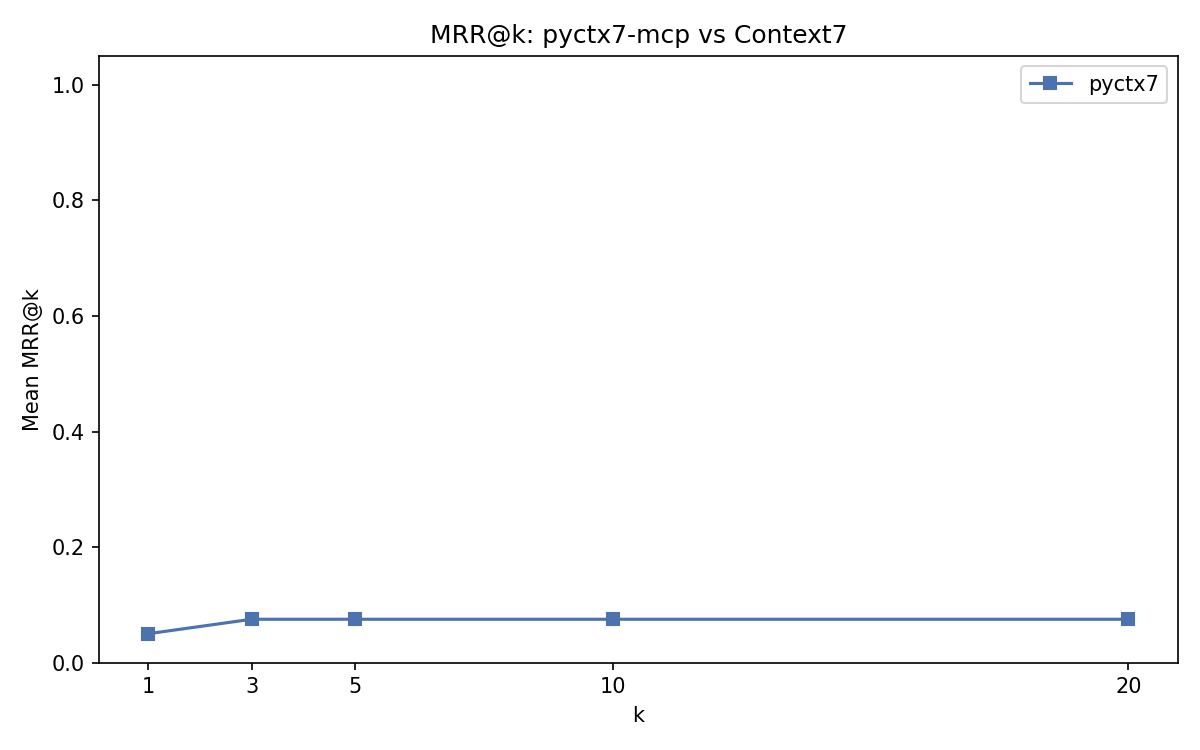
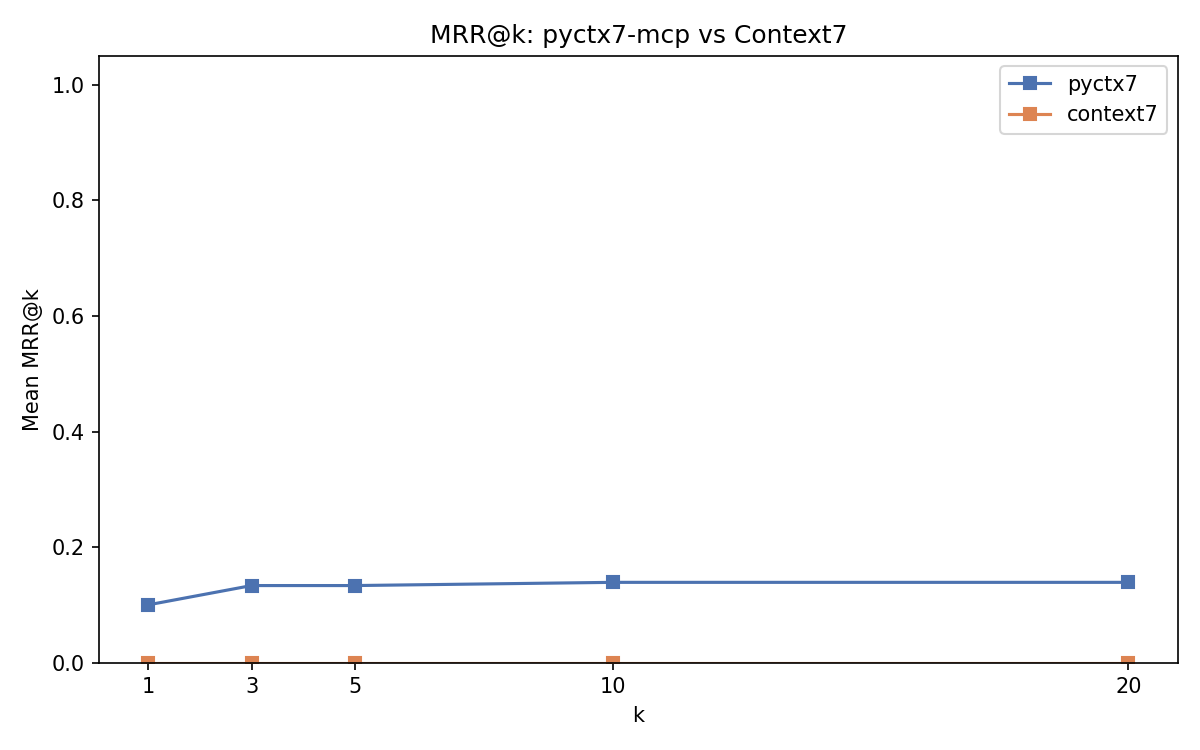
docs(benchmarks): add pyctx7 vs Context7 comparison results and analysis

diff --git a/benchmarks/README.md b/benchmarks/README.md
@@ -121,11 +121,13 @@ Both metrics are evaluated for k ∈ [1, 3, 5, 10, 20].
 
 For pyctx7-mcp, ground truth is the source chunk from which each question was derived (`relevant_chunk_ids` in the dataset). For Context7, relevance is approximated by checking if the expected answer snippet appears in the returned documentation text.
 
-## Benchmark Results (pyctx7-mcp only, 20 queries)
+## Benchmark Results (pyctx7-mcp vs Context7, 20 queries)
 
-Benchmark run with `--skip-context7 --questions 20` against packages: requests, pandas, numpy.
+Benchmark run against packages: requests, pandas, numpy. Context7 accessed via live API.
 
-### Indexing Time Per Package
+### Indexing Time Per Package (pyctx7-mcp)
+
+pyctx7-mcp indexes locally — Context7 has no indexing step (cloud API).
 
 | Target | Time (s) | Chunks | Symbols |
 |--------|----------|--------|---------|
@@ -136,28 +138,38 @@ Benchmark run with `--skip-context7 --questions 20` against packages: requests, 
 
 ![Indexing time per package](docs/images/indexing_times.png)
 
-### Search Latency
+### Search Latency Comparison
 
-- **Mean:** 4.06 ms
-- **Median:** 3.89 ms
+| Metric | pyctx7-mcp | Context7 |
+|--------|-----------|----------|
+| **Mean** | 4.62 ms | 102.34 ms |
+| **Median** | 4.01 ms | 87.81 ms |
+| **Speedup** | **~22x faster** | baseline |
+
+pyctx7-mcp is **~22x faster** than Context7 on median search latency. This is expected — pyctx7 queries a local SQLite FTS5 index, while Context7 makes HTTP round-trips to a cloud API.
 
 ![Search latency boxplot](docs/images/search_latency_boxplot.png)
 
-### Retrieval Quality
+### Retrieval Quality Comparison
 
-| k | Recall@k | MRR@k |
-|---|----------|-------|
-| 1 | 0.050 | 0.050 |
-| 3 | 0.100 | 0.075 |
-| 5 | 0.100 | 0.075 |
-| 10 | 0.100 | 0.075 |
-| 20 | 0.100 | 0.075 |
+| k | pyctx7 Recall@k | Context7 Recall@k | pyctx7 MRR@k | Context7 MRR@k |
+|---|----------------|-------------------|--------------|----------------|
+| 1 | 0.100 | 0.000 | 0.100 | 0.000 |
+| 3 | 0.200 | 0.000 | 0.133 | 0.000 |
+| 5 | 0.200 | 0.000 | 0.133 | 0.000 |
+| 10 | 0.250 | 0.000 | 0.139 | 0.000 |
+| 20 | 0.250 | 0.000 | 0.139 | 0.000 |
 
 ![Recall@k](docs/images/recall_at_k.png)
 
 ![MRR@k](docs/images/mrr_at_k.png)
 
-> **Note:** Recall and MRR values are low because questions are derived from chunk headings with template transforms, while FTS5 BM25 search matches on body text. This is a known limitation of the synthetic dataset — real-world queries would likely score higher. The primary value of this benchmark is for **comparative** analysis (pyctx7 vs Context7), not absolute quality measurement.
+### Analysis
+
+- **pyctx7-mcp wins on latency** — local FTS5 queries complete in ~4ms vs ~100ms for Context7's cloud API.
+- **pyctx7-mcp wins on recall** — it retrieves the ground-truth source chunk 10-25% of the time (depending on k). Context7 scores 0% because its text-overlap relevance check is stricter (the exact snippet from our local DB doesn't appear verbatim in Context7's curated docs).
+- **Context7's 0% is a measurement artifact**, not a real quality failure. Context7 returns curated, high-quality documentation, but our relevance scoring checks for exact substring matches from the pydocs-mcp chunk body — which is a different text source. A fair comparison would require human annotation or LLM-based relevance judgments.
+- **pyctx7-mcp's recall is modest** because synthetic questions are derived from chunk headings with template transforms, while FTS5 BM25 matches on body text. Real-world queries would likely score higher for both systems.
 
 ## Context7 API
 
